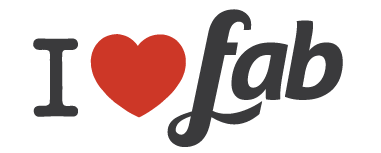
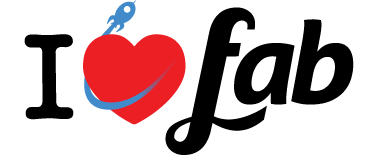
Corrections post, ajout visuels

diff --git a/index.html b/index.html
@@ -27,18 +27,18 @@ layout: default
 	</div>
 	<div class="col-md-4 col-sm-4">
 		<h2>Unified API</h2>
-		<p>Fabuloos offers a radically faster, cleaner and simpler approach for building top quality media players, based on open standards, no matter the development environment. Fabuloos hides the complexity of playback technologies in an unique and intuitive API.</p>
+		<p>Fabuloos offers a radically faster, cleaner and simpler approach for building top quality media players, based on open standards, whatever the development environment. Fabuloos hides the complexity of playback technologies in an unique and intuitive API.</p>
 	</div>
 	<div class="col-md-4 col-sm-4">
 		<h2>Full Experience</h2>
-		<p>Fabuloos can be used to create interactives experiences, web documentaries, slides alongside a video, or 2nd screen apps. Fabuloos is fully modular, supports playlists, skinning, subtitles and other plugins to assemble exactly the perfect player.</p>
+		<p>Fabuloos can be used to create interactive experiences, web documentaries, slides alongside a video, or second screen apps. Fabuloos is fully modular, supports playlists, skinning, subtitles and other plugins to assemble exactly the perfect player.</p>
 	</div>
 </div>
 
 <hr class="section-line" />
 
 <section id="how">
-	<h1>How it works</h1>
+	<h1>How It Works</h1>
 
 	<ul class="nav nav-tabs">
 		<li class="active"><a data-toggle="tab" href="#browsers"><i class="icon-html5"></i> Browsers</a></li>
@@ -53,13 +53,13 @@ layout: default
 <hr class="section-line" />
 
 <section id="donation">
-	<h1>How to contribute</h1>
+	<h1>How to Contribute</h1>
 	<p class="lead">We truly believe that openness and innovation are key to a better world where everyone can be free to learn and progress with others. Thanks to contribute to keep the project alive.</p>
 	<div class="col-sm-7">
 	<p> If you &hearts; fabuloos, first of all: thank you. You can help us making it even better.</p>
 	<p>One of the most important thing you can do is to <strong>spread the word</strong>, talk about it (even if you have to criticize), use it (push it to the limits!) and if you find something missing or broken, <a href="https://github.com/egeny/fabuloos-js/issues/new">request a feature</a> or <a href="https://github.com/egeny/fabuloos-js/issues/new">report a bug</a>.</p>
 	<p>If you are confident with writing code, you can also write (awesome) plugins and renderers. Feel free to join us as a contributor by forking and asking for pull requests.</p>
-	<p>At least, If fabuloos is useful for you and if you integrate it into a commercial product, thanks to donate to the project by cliking on the button below.</p>
+	<p>At last but not least, if you integrate fabuloos into a commercial product, or for any other reason, thanks to donate to the project by cliking on the button below.</p>
 	</div>
 	<div class="col-sm-5 text-center">
 		<img src="/img/ilovefab.svg" width="200px" alt="I Love Fab" onerror="swap(this)" />

diff --git a/css/website.css b/css/website.css
@@ -2,7 +2,7 @@ body { min-width: 740px; }
 
 a {
 	text-decoration: none;
-	color: #336699;
+	color: #0063ae;
 }
 
 /* Bootstrap overloads */
@@ -183,8 +183,8 @@ a {
 /* @group #header */
 
 	#header {
-		background: -webkit-linear-gradient(top, #181c4a, #080b22);
-		background:         linear-gradient(to bottom, #181c4a, #080b22);
+		background: -webkit-linear-gradient(top, #181c4a, #181c4a);
+		background:         linear-gradient(to bottom, #181c4a, #181c4a);
 
 		border: 0;
 		border-radius: 0;

diff --git a/_layouts/news.html b/_layouts/news.html
@@ -6,7 +6,7 @@ layout: default
 	<article>
 		<header>
 			<h1>{{ post.title }}</h1>
-			<p>
+			<p style="margin-top:10px;">
 				<span class="for-reader">Published the </span><span class="date">{{ post.date | date_to_long_string }}</span>
 				{% if post.author %} ● <span class="for-reader">by </span>
 					{% if post.author.url %}

diff --git a/_posts/2014-01-21-fabuloos-1.0.md b/_posts/2014-01-21-fabuloos-1.0.md
@@ -1,19 +1,19 @@
 ---
-title: In space no one can hear you code
+title: Fabuloos 1.0.0-alpha release
 layout: news
-author: Jérôme
+author: Jérôme Bourreau-Guggenheim
 ---
 
-We are excited to announce to the world the birth of fabuloos, an initiative for standardizing media playback across web browsers and devices.
+We are excited to announce to the world the birth of [Fabuloos](http://www.fabuloos.org), an initiative for <strong>standardizing media playback</strong> across web browsers and devices.
 
-This is not just another HTML5 player with Flash fallback like [JWPlayer](http://www.jwplayer.com) or [Video.js](http://www.videojs.com) which are primitive, closed-garden and inefficient. Forget them.
+Fabuloos is a radically faster, cleaner and simpler approach for creating top quality media players based on open standards. 
 
-Fabuloos is a radically faster, cleaner and simpler approach for creating top quality media players based on open standards.
+This is not another HTML5 player with Flash fallback like [JWPlayer](http://www.jwplayer.com) or [Video.js](http://www.videojs.com) which are primitives, closed-gardens and not really effectives. Forget all of them. 
 
-Fabuloos offers an unique and intuitive API for media playback no matter the development environment. It comes with the first release of the [Javascript SDK](/download/) which is the most solid, lightweight, and we dare to say powerful yet.
+Code once and for all. Fabuloos offers an unique and intuitive API for media playback whatever the development environment. It comes with the first release of the [Javascript SDK](/download/) which is the most solid, lightweight, and we dare to say powerful yet.
 
-Enjoy using fabuloos to play a video on a single web page or create interactions between the video and your page. Open your mind to new possibilities, they are infinite.
+We hope you will [enjoy](/documentation/getting-started.html) using Fabuloos to play a video on a single web page or create magnificent interactions between the video and your page. Open your mind to new possibilities, they are absolutely infinite.
 
-[Start playing](/documentation/getting-started.html) with fabuloos and try to amaze us!
+<blockquote><p>Most people make the mistake of thinking design is what it looks like. That’s not what we think design is. It’s not just what it looks like and feels like. Design is how it works.</p><small>Steve Jobs in <cite title="Source Title"><a href="http://www.nytimes.com/2003/11/30/magazine/the-guts-of-a-new-machine.html?pagewanted=all&src=pm">The New York Times</a> November 30, 2003</cite></small></blockquote>
 
 A lot more is coming soon. Stay tuned!
